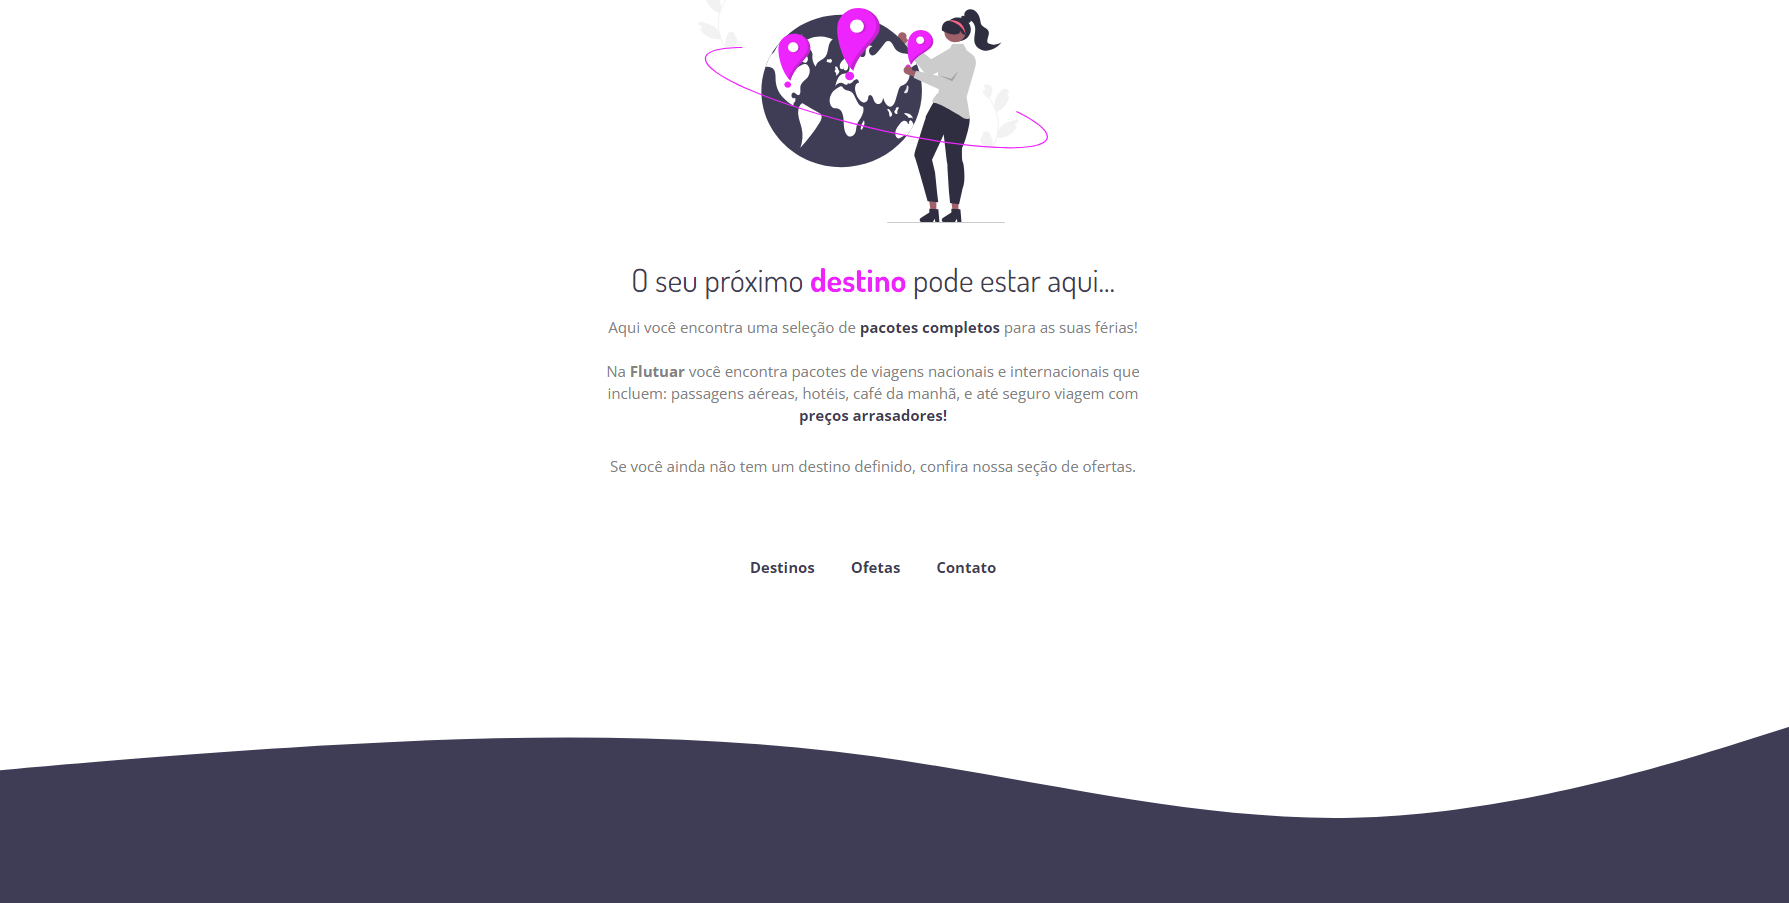
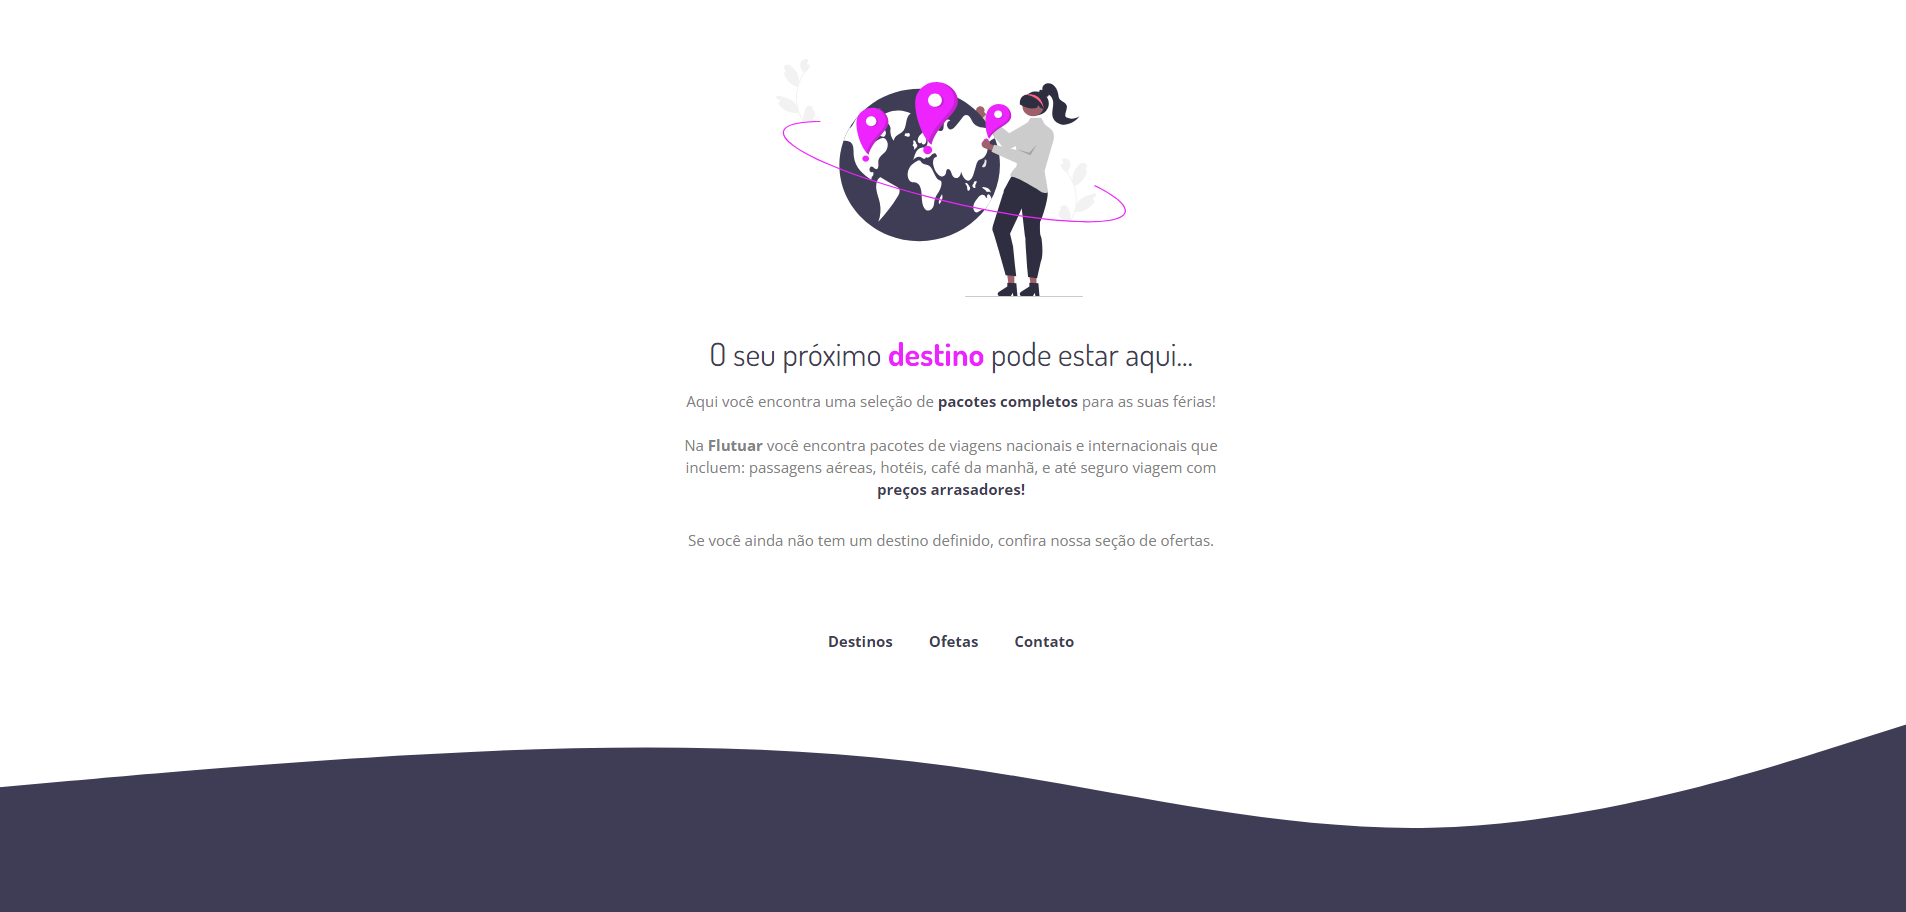
update README.md

diff --git a/style.css b/style.css
@@ -13,6 +13,10 @@ body {
   text-align: center;
 }
 
+.main img {
+  margin-top: 64px;
+}
+
 h1 {
   font-family: "Dosis", sans-serif;
   font-size: 32px;
